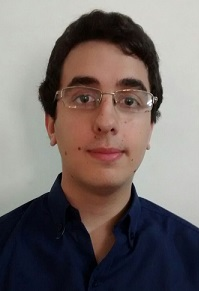
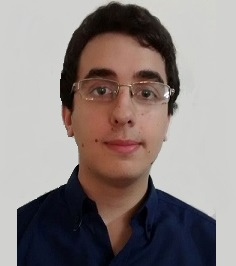
Border radius 50%

diff --git a/index.html b/index.html
@@ -128,6 +128,8 @@
 
 
 		#texto-presentacion{
+			font-size: 15px;
+			font-weight: bold;
 			text-align: justify;
 			margin-left: 125px;
 		}
@@ -294,17 +296,17 @@
 			<h2 class="text-center seccion-titel">ABOUT</h2>
 			<hr class="divider-style">
 			<div class="row">
-				<div class="col-md-6">
+				<div class="col-md-7">
 					<p id="texto-presentacion">
-						Estudiante del último año de Ingeniería en Sistemas de Información de la UTN frd.
+						Estudiante del último año de Ingeniería en Sistemas de Información de la Universidad Tecnologica Nacional.
 						<br><br>
 						Soy una persona responsable, proactiva y  con muchas ganas de trabajar y de aprender.
 						<br><br>
 						Mis objetivos son poner en práctica todos los conocimientos adquiridos durante mi formación universitaria y poder formar parte de un equipo de trabajo que me permita desarrollarme personal y profesionalmente.
 					</p>
 				</div>
-				<div class="col-md-6">
-					<img  id="foto-presentacion" src="img/edu.jpg">
+				<div class="col-md-5">
+					<img  id="foto-presentacion" src="img/edu.jpg" style="border-radius: 50%;">
 				</div>
 
 			</div>
